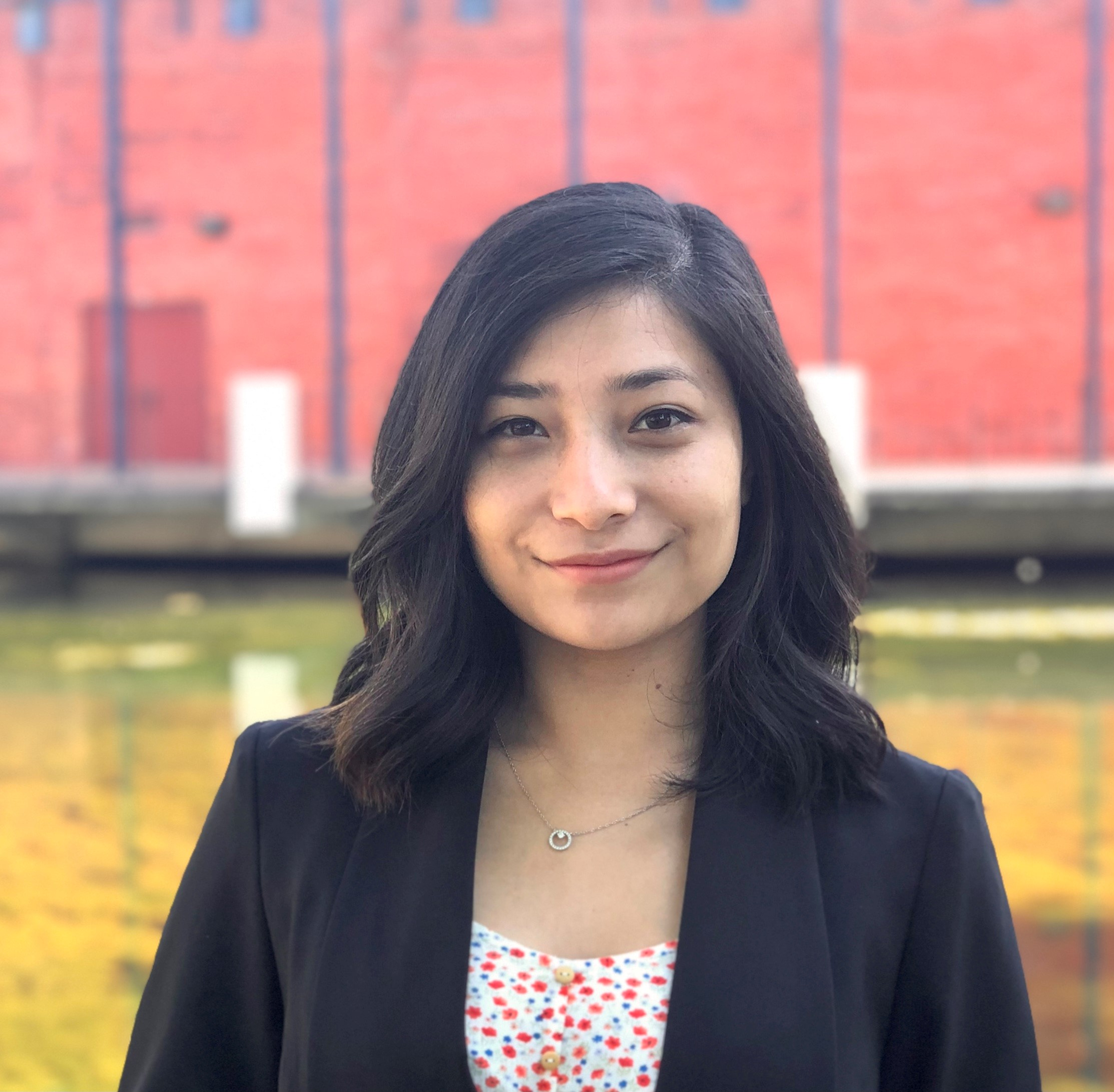
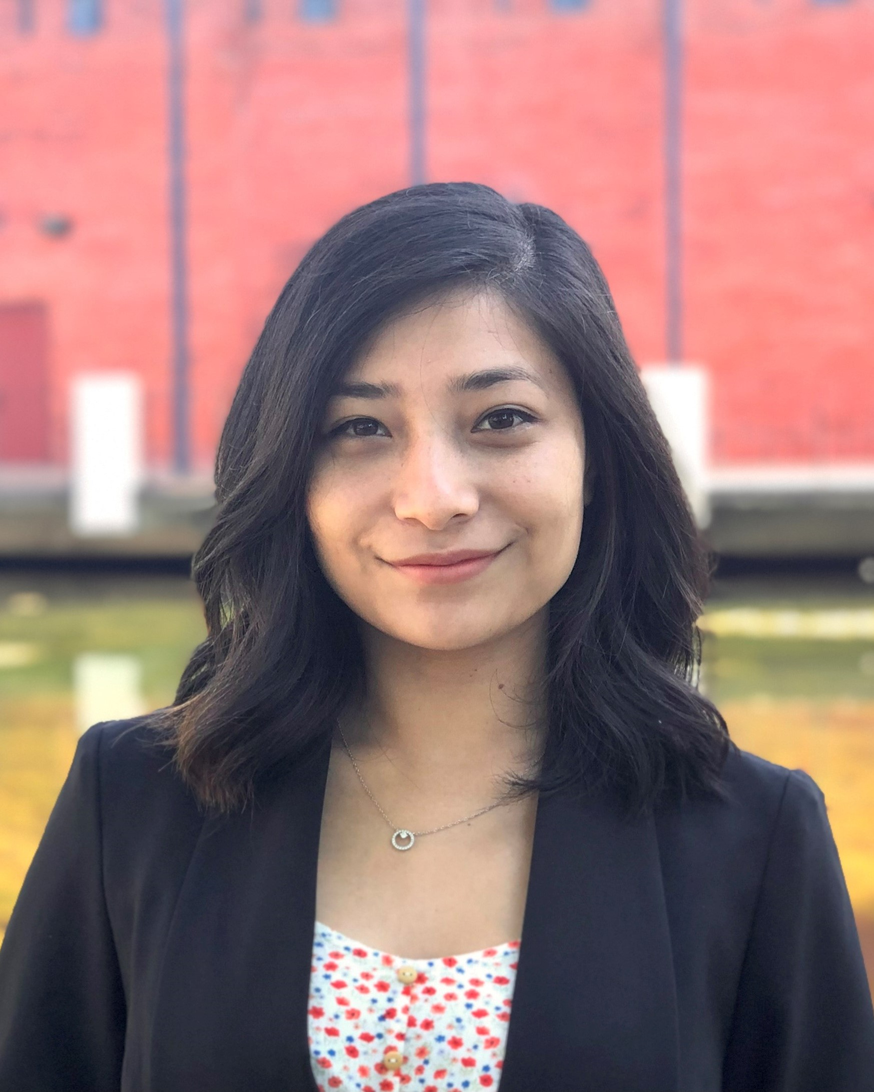
updated about us page

diff --git a/eat_website/src/pages/AboutPage.js b/eat_website/src/pages/AboutPage.js
@@ -2,84 +2,58 @@ import React, { Component } from "react";
 import Brian from "../img/IMG_9277.JPG";
 import Justina from "../img/headshot.jpg";
 import Sujata from "../img/Pro pic.JPG";
-import Danny from "../img/square_headshot.jpg";
+import Danny from "../img/IMG_0931.jpg";
 import Canyon from "../img/IMG_5711.JPG";
 
+export const team = [
+    {
+      name: "Brian Akanwa",
+      intro: "Hello! My name is Brian Akanwa. I am from Houston, TX and I attend Texas Tech University!",
+      image: Brian
+    },
+    {
+      name: "Justina Le",
+      intro: "Hi, my name is Justina Le! I'm from Tampa, Florida and I go to the University of South Florida",
+      image: Justina
+    },
+    {
+      name: "Sujata Duwal",
+      intro: "Hi! My name is Sujata Duwal and I'm from San Marcos, Texas and I go to Texas State University",
+      image: Sujata
+    },
+    {
+      name: "Canyon Sembera",
+      intro: "Hello! I'm Canyon Sembera. I am from San Antonio, TX and go to Texas A&M University.",
+      image: Canyon
+    },
+    {
+      name: "Danny Trinh",
+      intro: "Last but not least! Wassup! My names Danny Trinh! I'm from Houston, TX and I attend the University of Texas.",
+      image: Danny
+    }
+  ];
+
 export default class AboutPage extends Component {
+
   render() {
     return (
       <div className="container">
-        <h1> Developers:</h1>
-        <div style={{ display: "flex", marginBottom: 0 }}>
-          <img
-            src={Brian}
-            class="separator"
-            style={{ marginRight: 0, height: 200, width: 250 }}
-            alt=""
-          />
-          <h1
-            class="separator"
-            style={{ marginRight: 45, marginLeft: 20, height: 200, width: 300 }}
-          >
-            Hello! My name is Brian Akanwa. I am from Houston, TX and I attend
-            Texas Tech University!
-          </h1>
-
-          <img
-            src={Justina}
-            class="separator"
-            style={{ marginRight: 0, height: 200, width: 300 }}
-            alt=""
-          />
-          <h1
-            class="separator"
-            style={{ marginRight: 45, marginLeft: 20, height: 200, width: 300 }}
-          >
-            Hi! My name is Justina Le and I'm from Tampa Florida and I go to
-            University of South Florida.
-          </h1>
-          <img
-            src={Sujata}
-            class="separator"
-            style={{ height: 200, width: 300 }}
-            alt=""
-          />
-          <h1
-            class="separator"
-            style={{ marginRight: 45, marginLeft: 20, height: 200, width: 300 }}
-          >
-            Hi! My name is Sujata Duwal and I'm from San Marcos, Texas and, I go
-            to Texas State University
-          </h1>
-        </div>
-        <div style={{ display: "flex", marginBottom: 0 }}>
-          <img
-            src={Canyon}
-            class="separator"
-            style={{ height: 250, width: 300 }}
-            alt=""
-          />
-          <h1
-            class="separator"
-            style={{ marginRight: 45, marginLeft: 20, height: 200, width: 300 }}
-          >
-            Hello! I'm Canyon Sembera. I am from San Antonio, TX and go to Texas
-            A&M University.
-          </h1>
-          <img
-            src={Danny}
-            class="separator"
-            style={{ height: 200, width: 300 }}
-            alt=""
-          />
-          <h1
-            class="separator"
-            style={{ marginRight: 45, marginLeft: 20, height: 200, width: 300 }}
-          >
-            Last but not least! Wassup! My names Danny Trinh! I'm from Houston,
-            TX and I attend the University of Texas.
-          </h1>
-        </div>
+        <h1 style={{margin: "10px"}}> Developers:</h1>
+        <div style={{ display: "flex", marginBottom: 0}}>
+        {team.map((data, key) => {
+        return (
+          <div class="card" style={{width: "16rem"}}>
+          <img src={data.image} class="card-img-top" alt="" />
+          <div class="card-body" key={key}>
+            <h5 class="card-title">{data.name}</h5>
+            <p class="card-text">{data.intro}</p>
+          </div>
+          </div>
+          );
+        }
+      )}
+      
+      </div>  
       </div>
     );
   }
